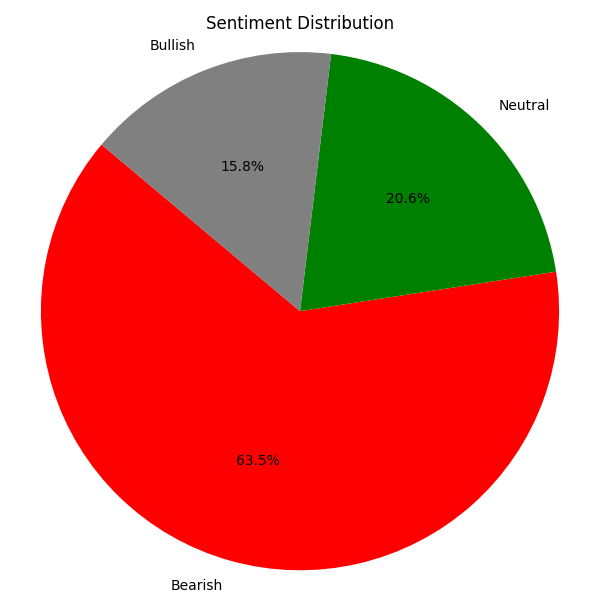
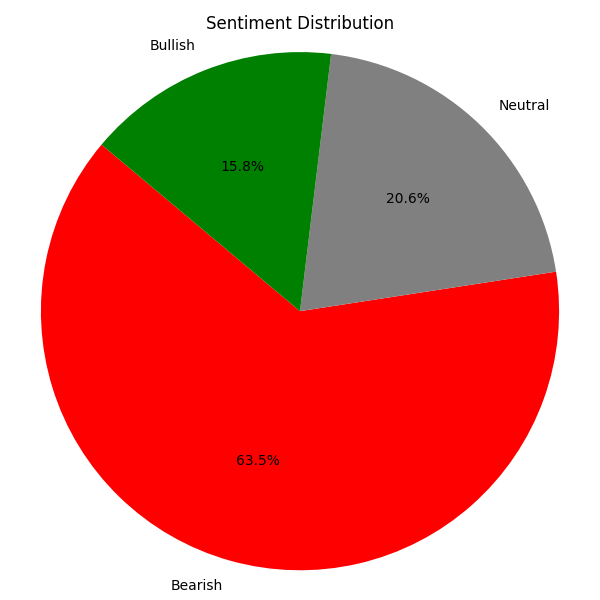
ok

Changed region(s): [[0.18, 0.06, 0.93, 0.54]]

diff --git a/v2/model-in-action/main.py b/v2/model-in-action/main.py
@@ -74,12 +74,12 @@ def run_scraper(ticker):
         print(f"[•] Cleaning scraped news for {ticker}...")
         clean_news_file(ticker, output_dir=CLEANSING_OUTPUT_DIR)
         print("[✓] Cleansing complete. Running prediction...")
-        run_prediction()
+        run_prediction(ticker)  # Pass ticker here
     else:
         print("Please enter a ticker.")
 
 # === Run Prediction and Show Results ===
-def run_prediction():
+def run_prediction(ticker):  # Accept ticker as an argument
     with open(MODEL_PATH, "rb") as f:
         model = pickle.load(f)
     with open(VECTORIZER_PATH, "rb") as f:
@@ -103,16 +103,23 @@ def run_prediction():
     label_map = {0: "Bearish", 1: "Neutral", 2: "Bullish"}
     label_names = [label_map[i] for i in preds]
 
-    # Pie chart
-    labels = list(set(label_names))
-    values = [label_names.count(l) for l in labels]
+    # Define the fixed color mapping for sentiment
+    color_map = {0: "red", 1: "gray", 2: "green"}
 
+    # Create the list of labels and their corresponding colors
+    labels = [label_map[0], label_map[1], label_map[2]]
+    colors = [color_map[0], color_map[1], color_map[2]]
+
+    # Count the occurrences of each sentiment type (0: Bearish, 1: Neutral, 2: Bullish)
+    values = [label_names.count(label_map[0]), label_names.count(label_map[1]), label_names.count(label_map[2])]
+
+    # Pie chart with fixed colors
     plt.figure(figsize=(6, 6))
-    plt.pie(values, labels=labels, autopct='%1.1f%%', colors=["red", "green", "gray"], startangle=140)
-    plt.title("Sentiment Distribution")
+    plt.pie(values, labels=labels, autopct='%1.1f%%', colors=colors, startangle=140)
+    plt.title(f"Sentiment Distribution for {ticker}")  # Include ticker in the title
     plt.axis('equal')
     plt.tight_layout()
-    plt.savefig("v2/model-in-action/sentiment_distribution.png")
+    plt.savefig(f"v2/model-in-action/sentiment_distribution_{ticker}.png")  # Save with ticker
     plt.show()
 
     # Insight
